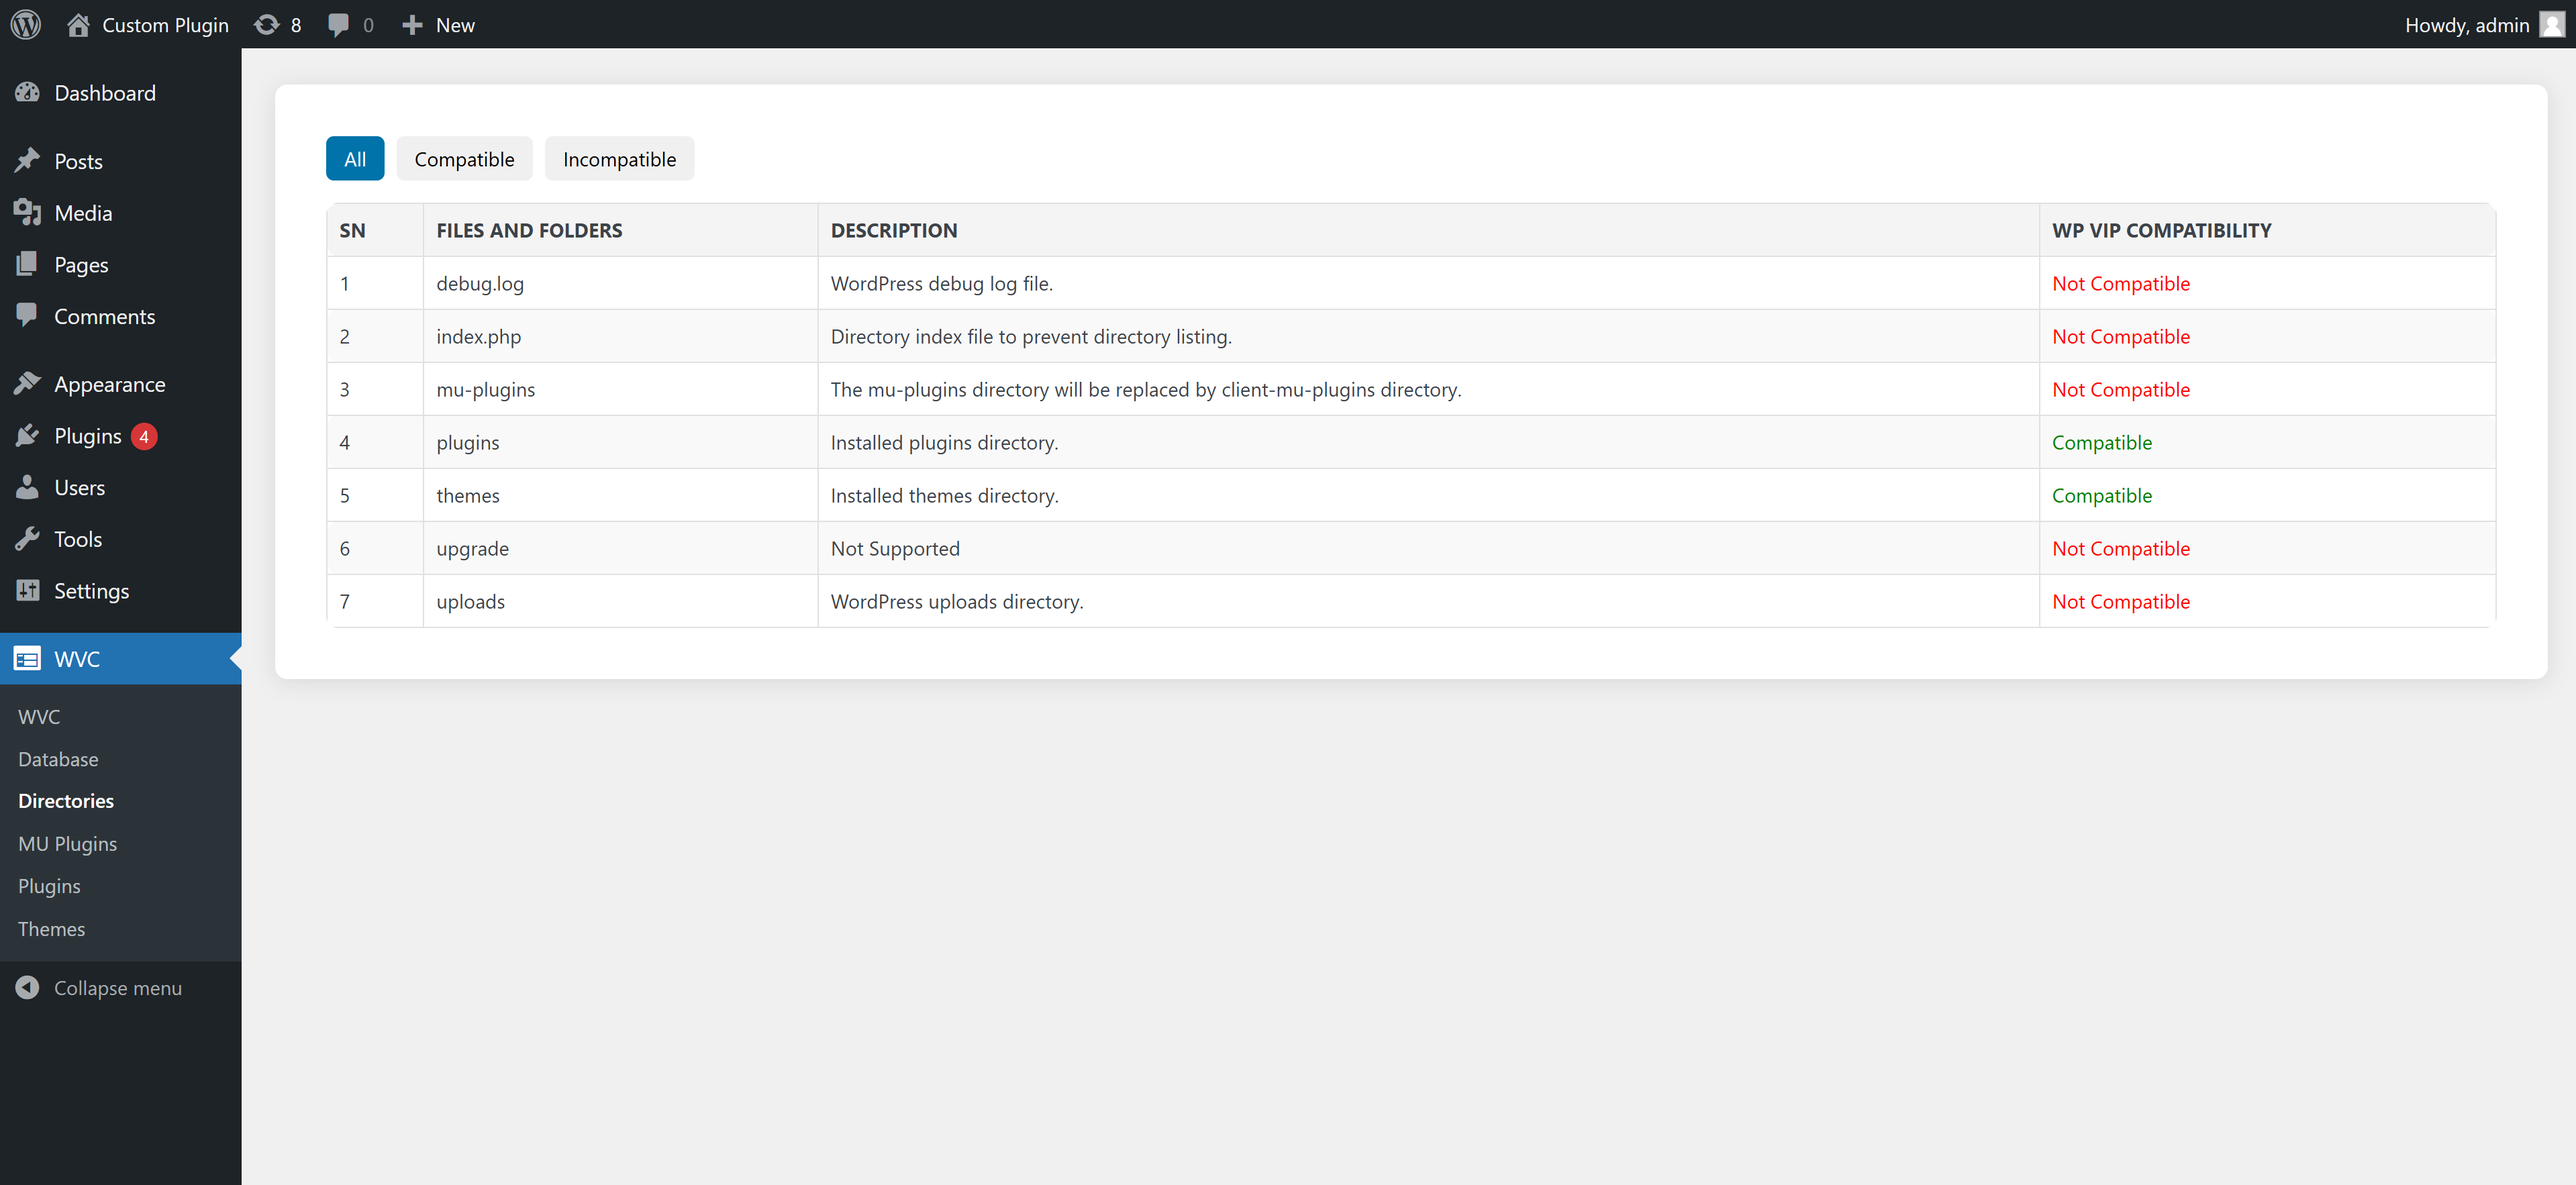
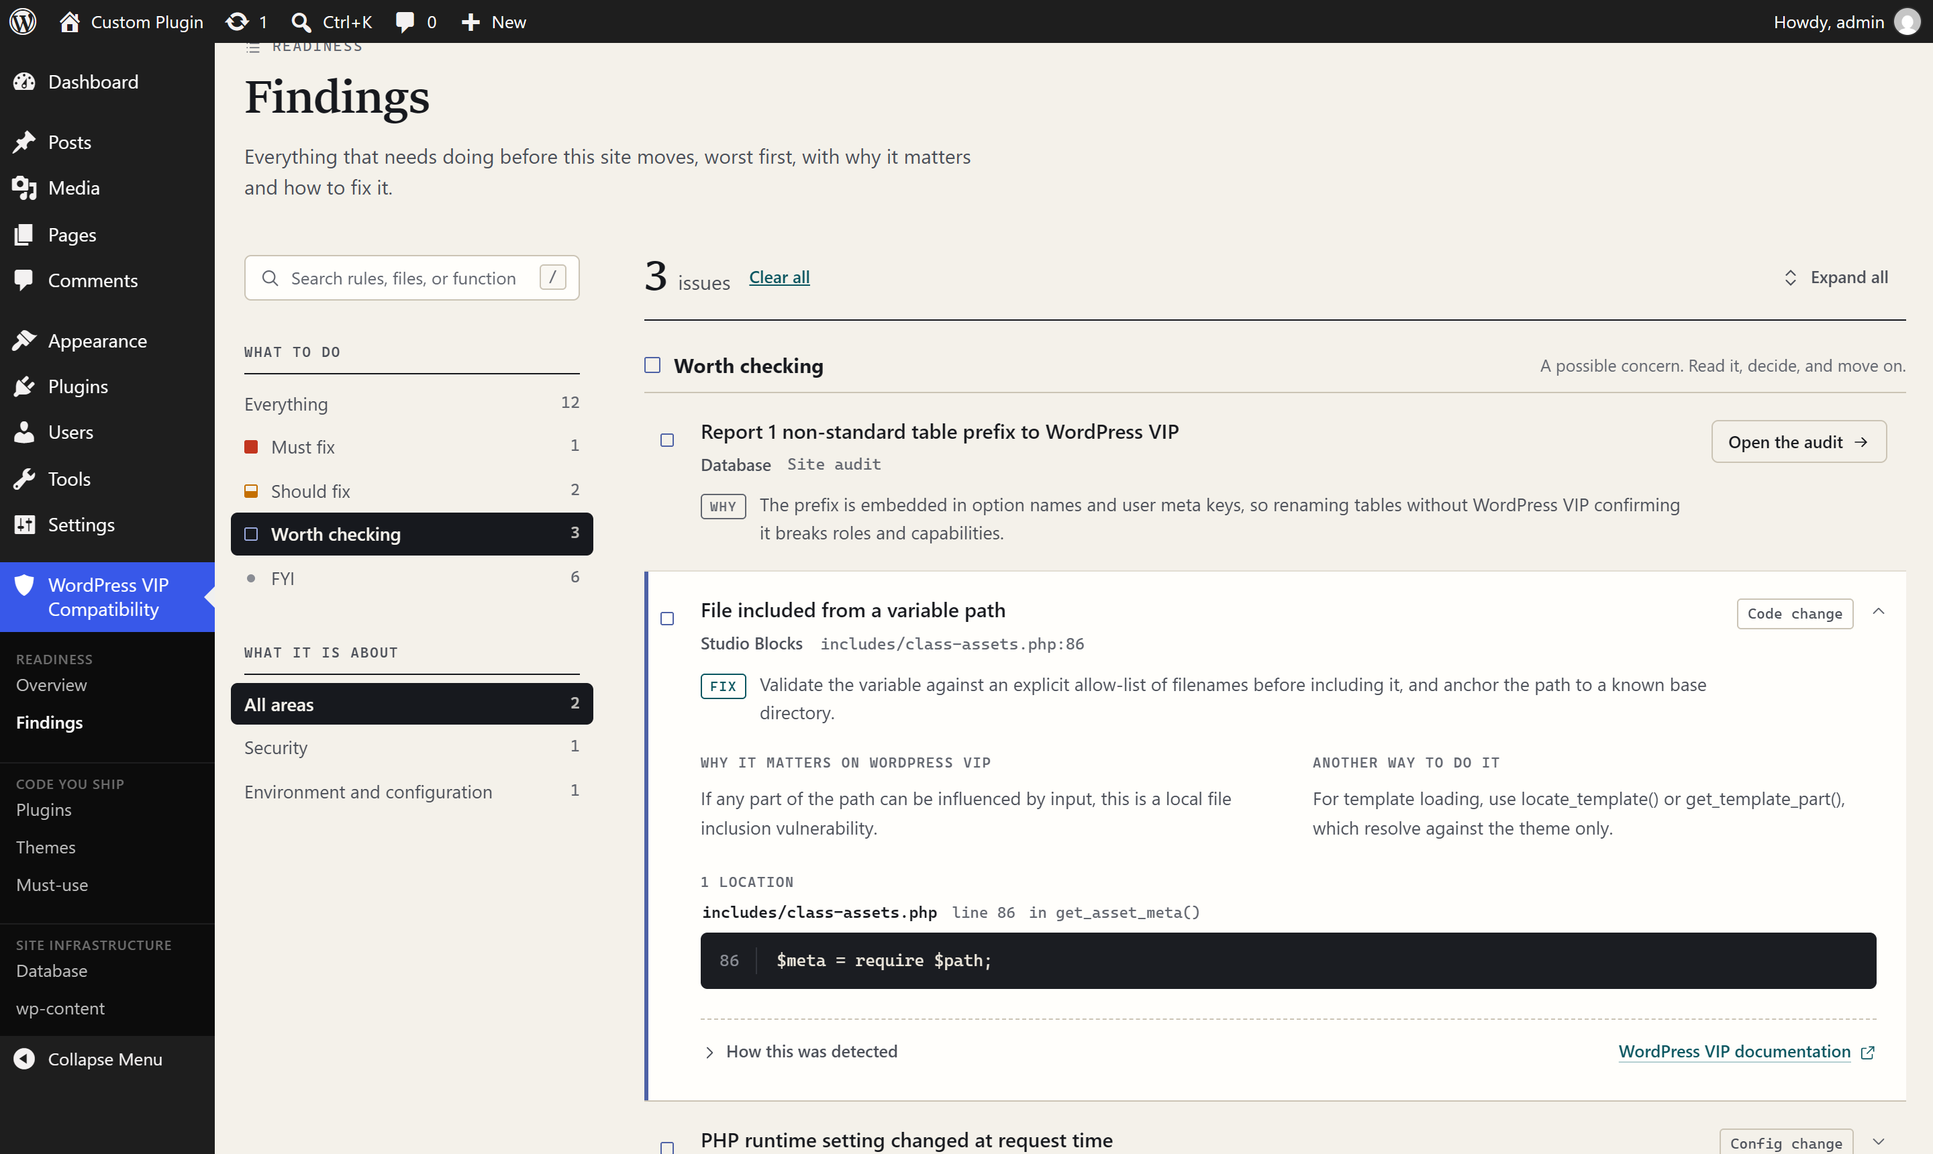
docs: describe and screenshot the redesigned screens

diff --git a/README.md b/README.md
@@ -49,10 +49,12 @@ A target ends up in one of three states: **ready**, **needs review** (work to do
 
 ## Screens
 
-Navigation is the WordPress admin menu itself. The menu carries a count of what must be fixed before migrating, and the seven entries are split under headings into three groups — readiness, the code you ship, and the site's own infrastructure — so the order to work in is visible before anything is opened.
+The screens are designed as a migration manifest: a ruled document on a paper ground rather than a dashboard of cards. Colour is spent on urgency only, and every urgency level also has its own shape, so the scale reads without colour.
 
-- **Overview** — readiness score, the ranked list of what to do next, a per-area breakdown, the environment the site runs on, and how the report has moved over recent scans.
-- **Findings** — one flat list of fixes, worst first, each card carrying the recommended fix on its face. Filtering is chips that are links: what to do about it, then what it is about, applied on click and reflected in the URL.
+The WordPress admin menu carries a count of what must be fixed before migrating, split under headings into three groups — readiness, the code you ship, and the site's own infrastructure. Inside the plugin, a section index repeats those groups and marks each screen with how many items in it need attention.
+
+- **Overview** — readiness score, the outstanding work by tier, the first three things to do, a map of every item on the site by verdict, the environment the site runs on, and how the report has moved over recent scans.
+- **Findings** — one flat list of fixes, worst first, each entry carrying the recommended fix on its face. Filters sit in a sticky column of links — what to do about it, then what it is about — applied on click and reflected in the URL. Press `/` to jump to search.
 - **Plugins** — every installed plugin with its verdict, activation state, available update and severity split; each row expands to its evidence.
 - **Themes** — the active theme in detail, plus every other theme that still ships in the repository.
 - **Must-use** — everything in `wp-content/mu-plugins`, separated into what to relocate and what to drop.
